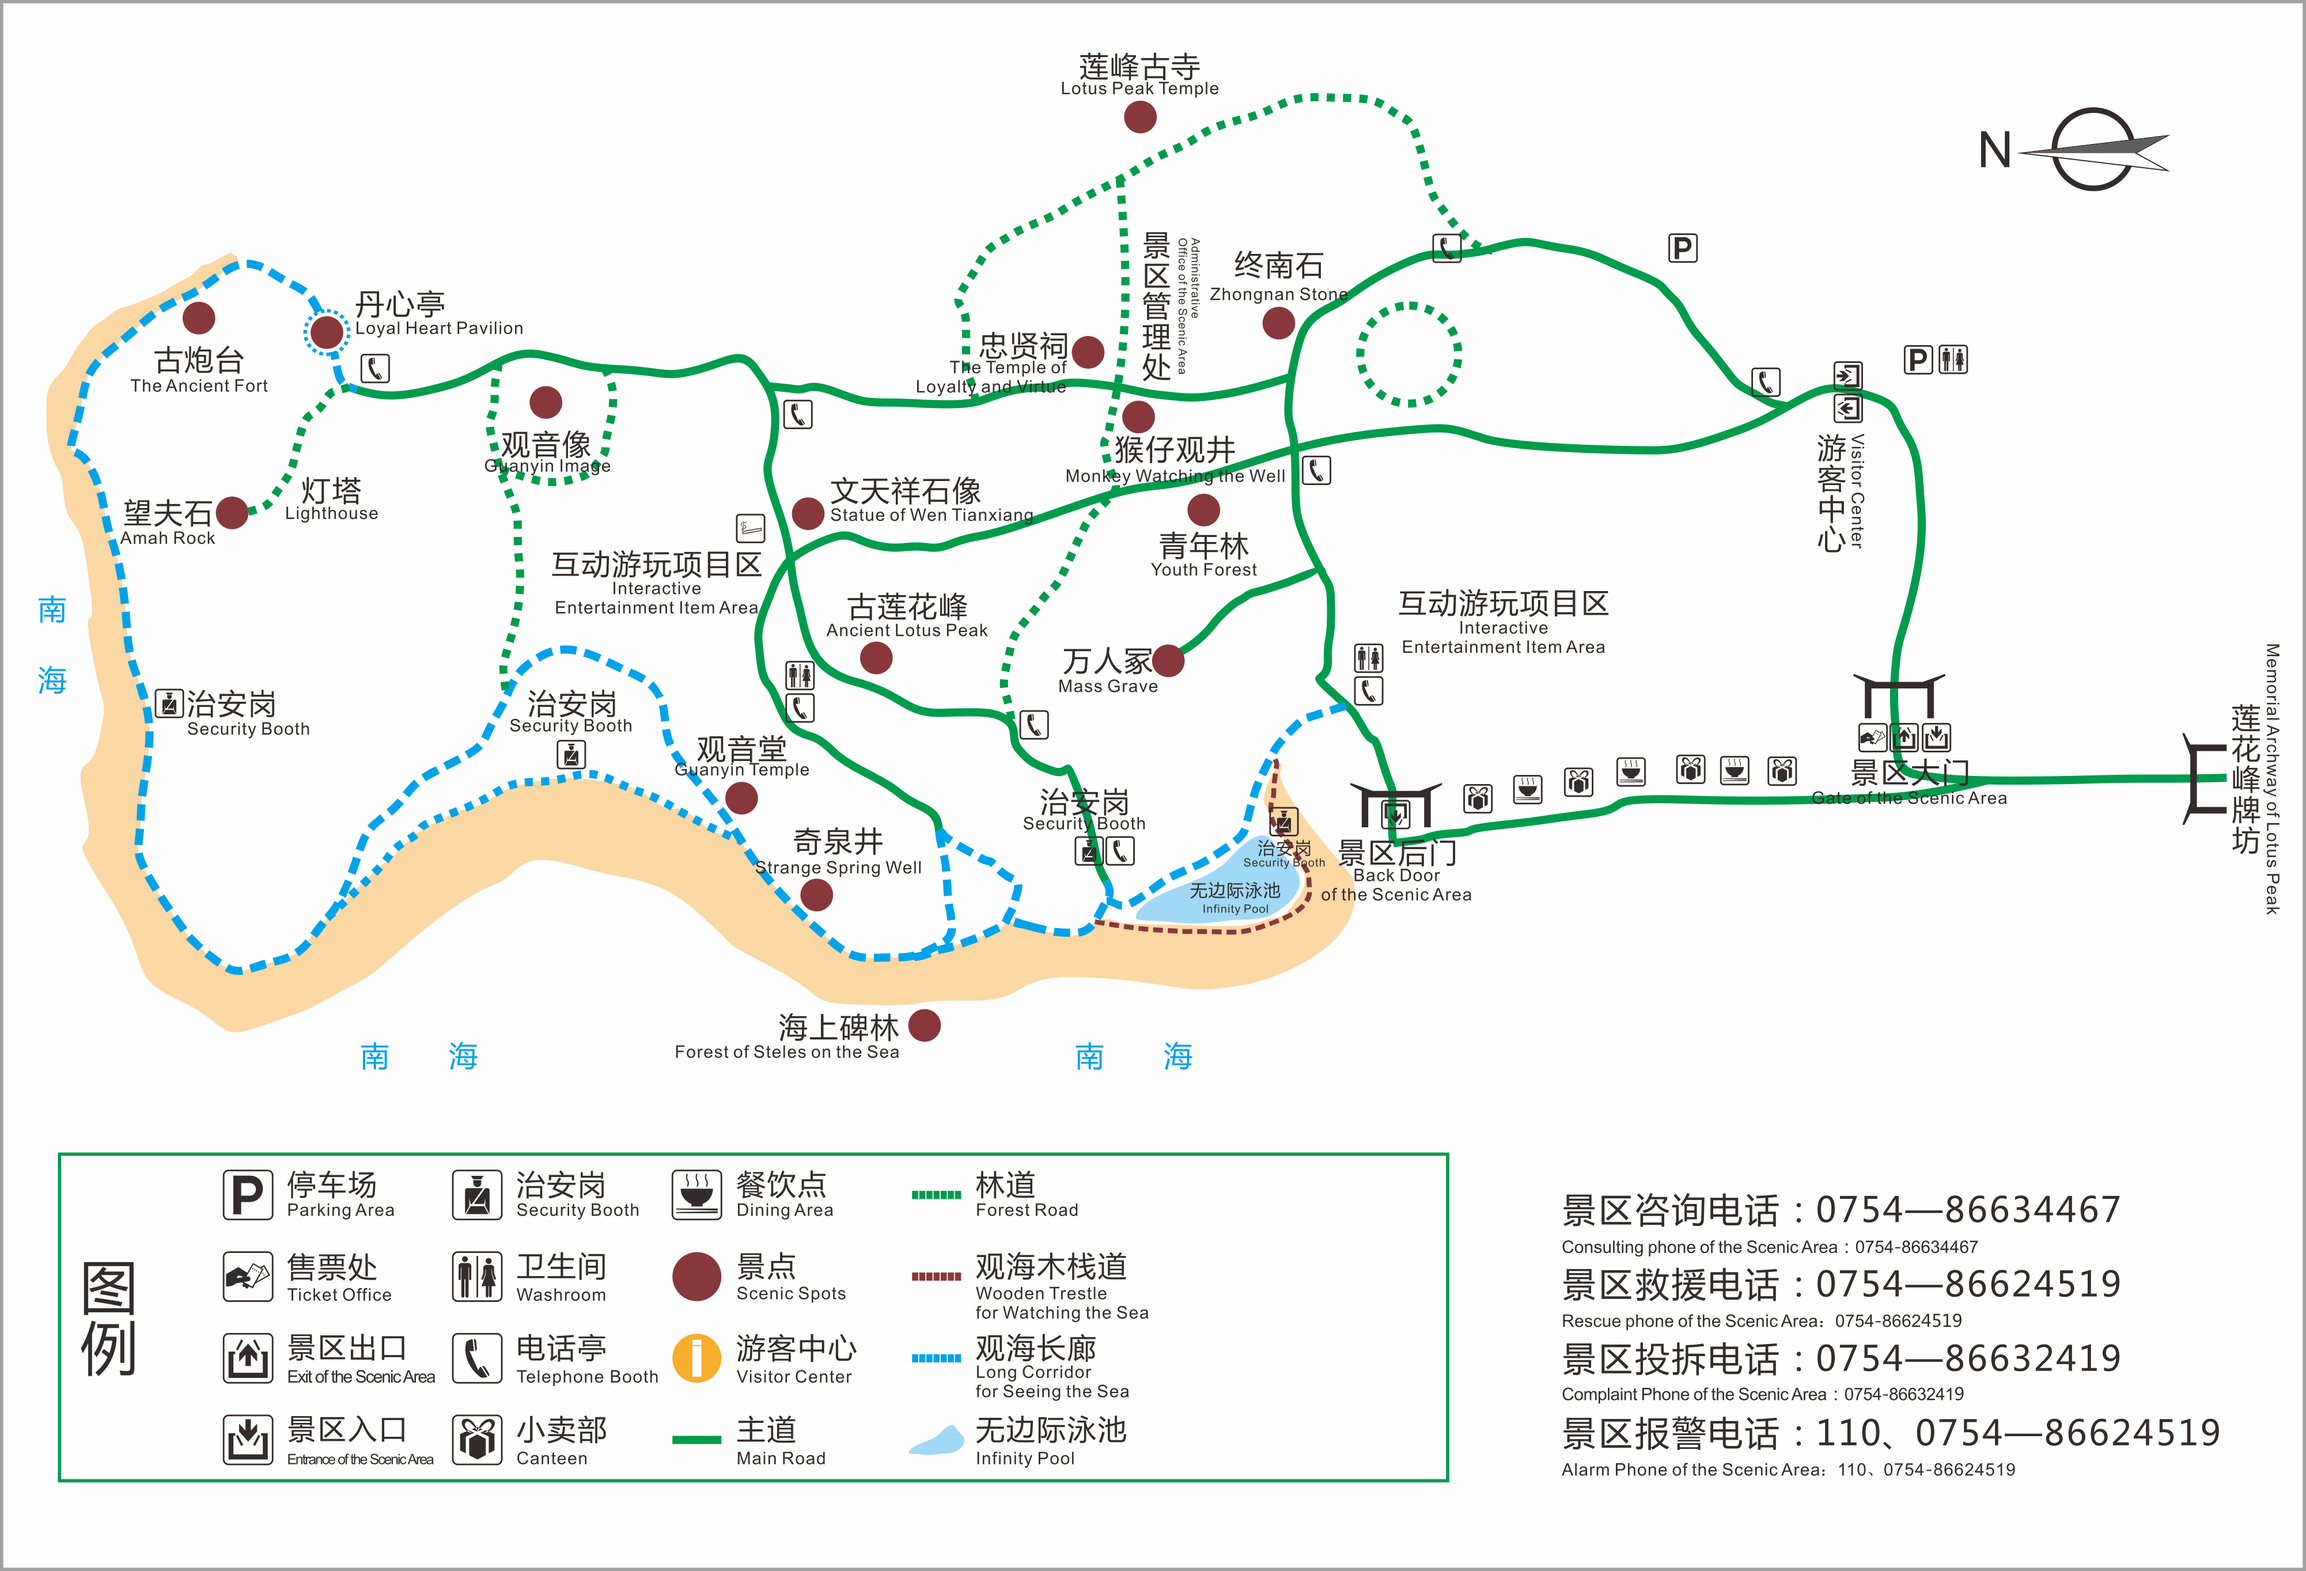
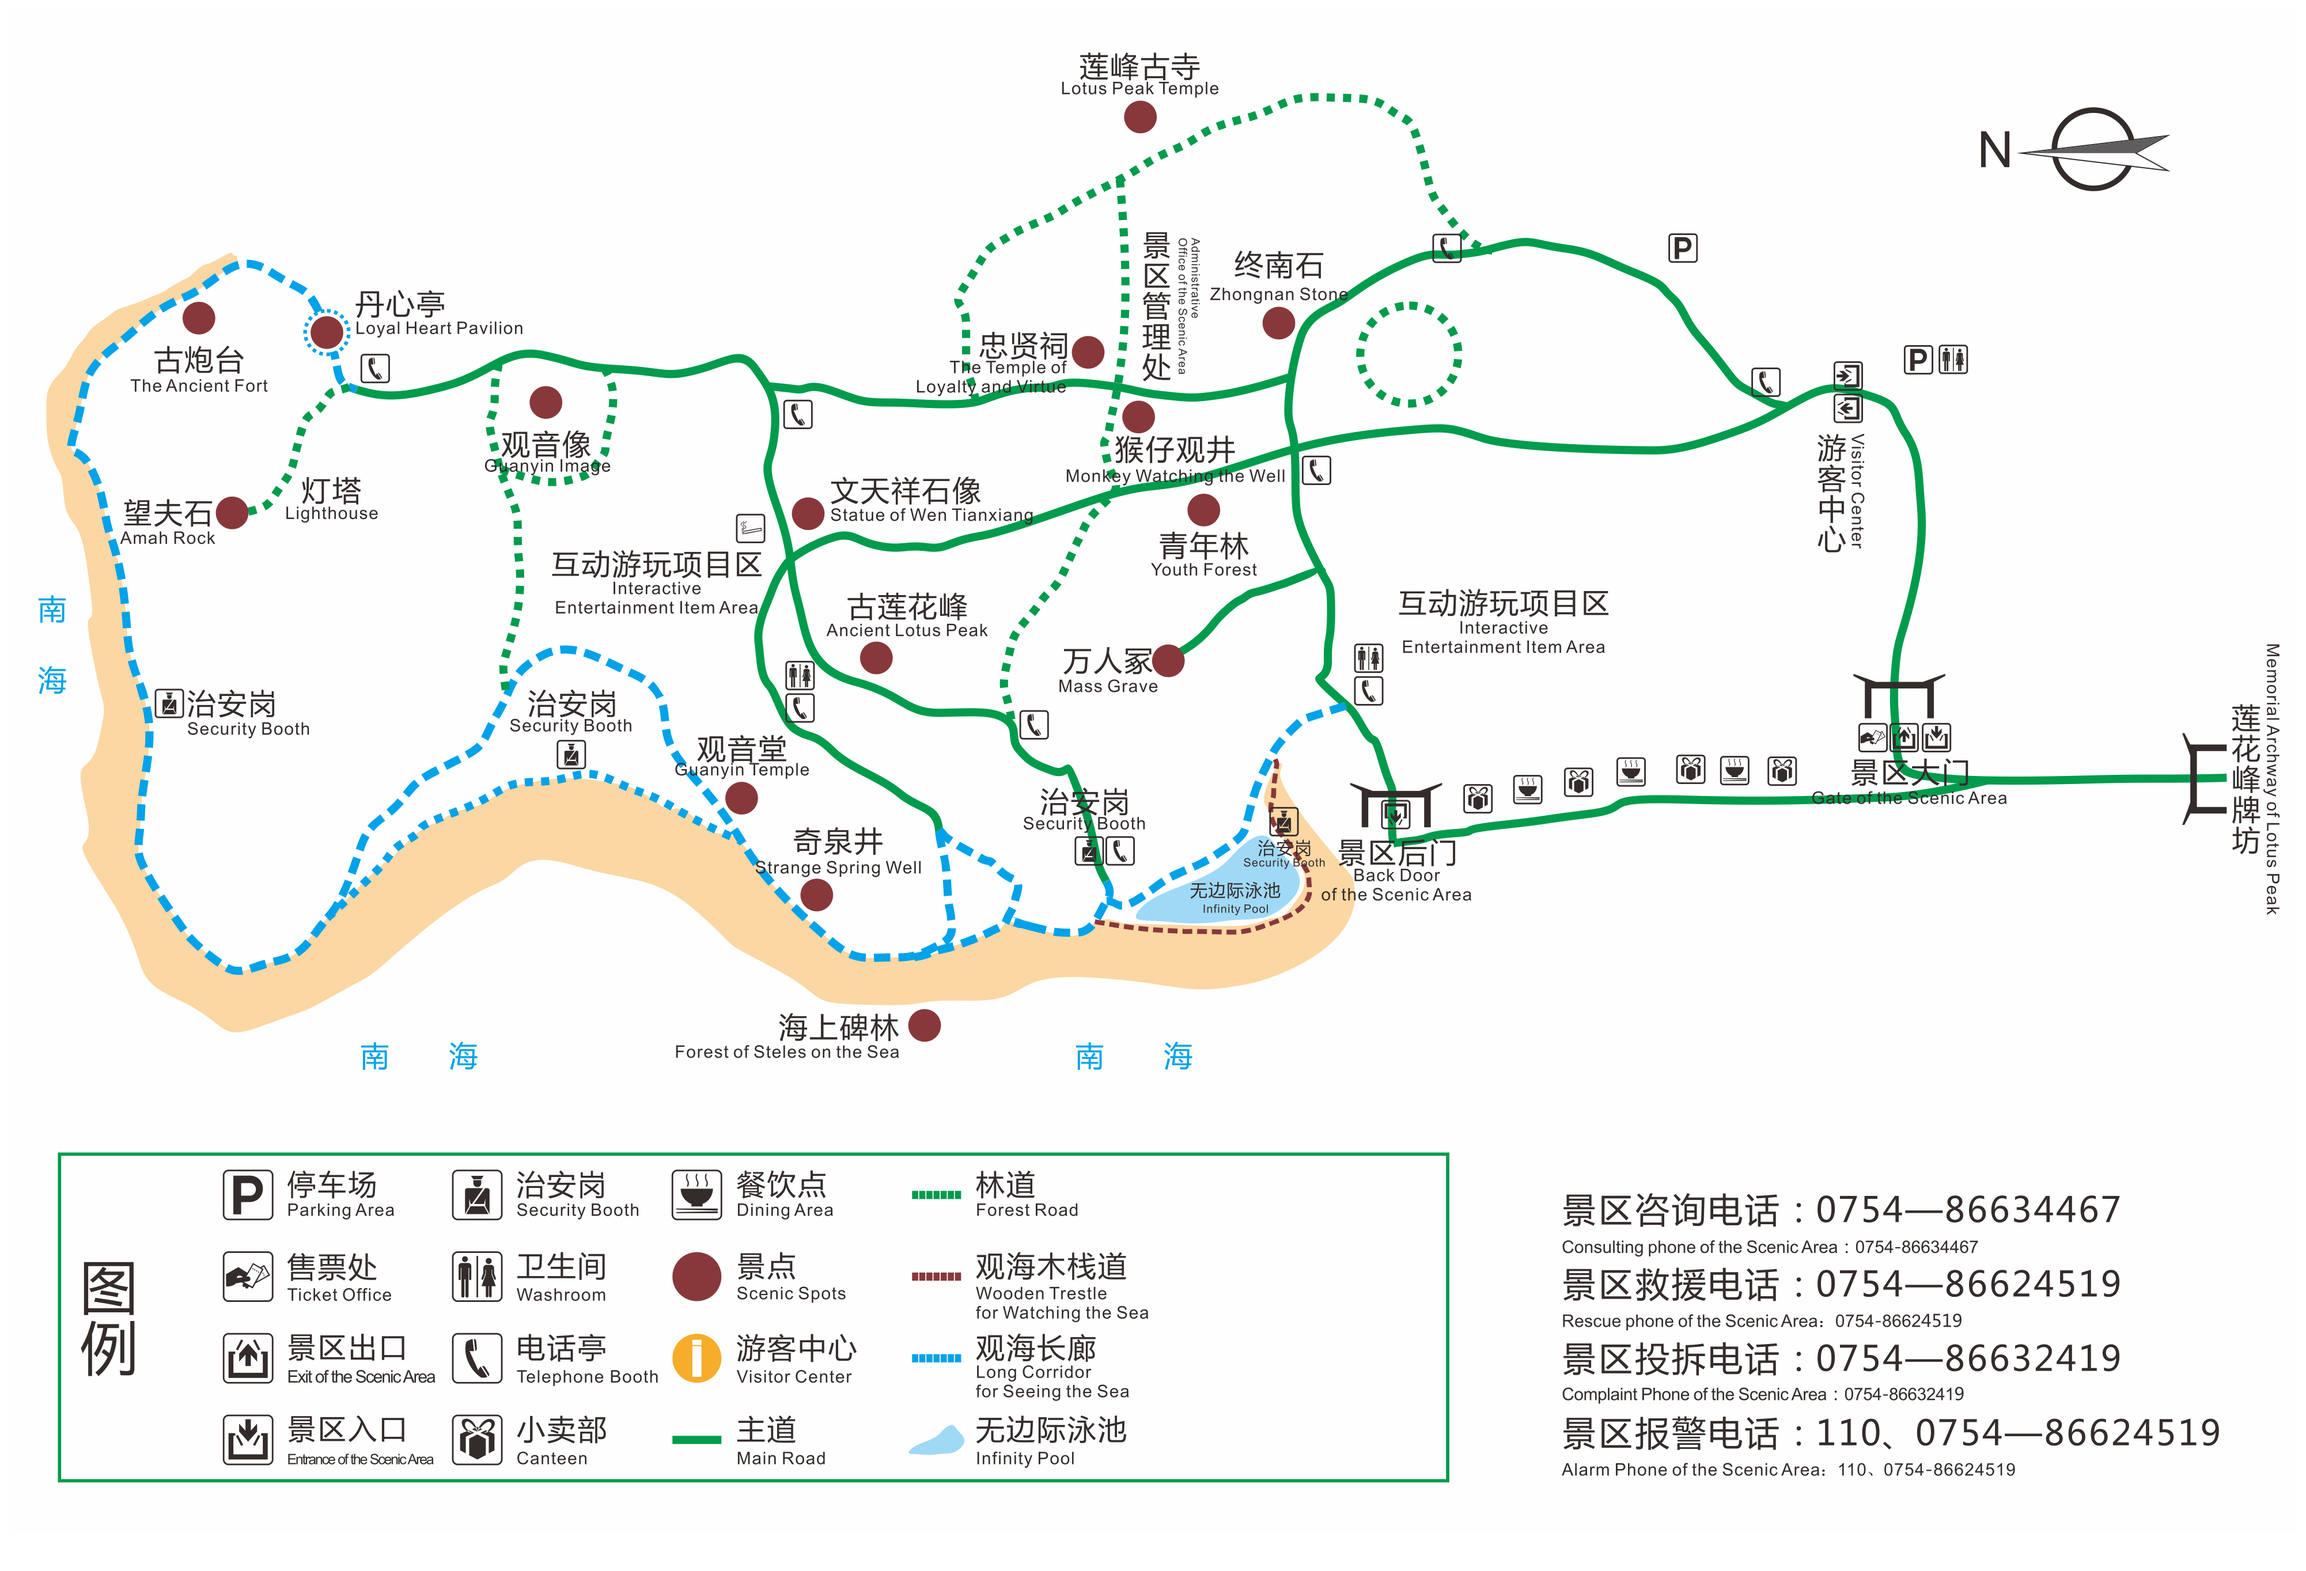
change background color

Changed region(s): [[0.0, 0.0, 1.0, 1.0], [0.0, 0.0, 0.0312, 0.0312]]

diff --git a/www/style/style.less b/www/style/style.less
@@ -1,7 +1,7 @@
 html,body,#app-box{
   width: 100%;
   height: 100%;
-  background:url("../images/bg.jpg") repeat;
+  //background:url("../images/bg.jpg") repeat;
   overflow: hidden;
 }
 

diff --git a/www/style/style.css b/www/style/style.css
@@ -3,7 +3,6 @@ body,
 #app-box {
   width: 100%;
   height: 100%;
-  background: url("../images/bg.jpg") repeat;
   overflow: hidden;
 }
 ul,
